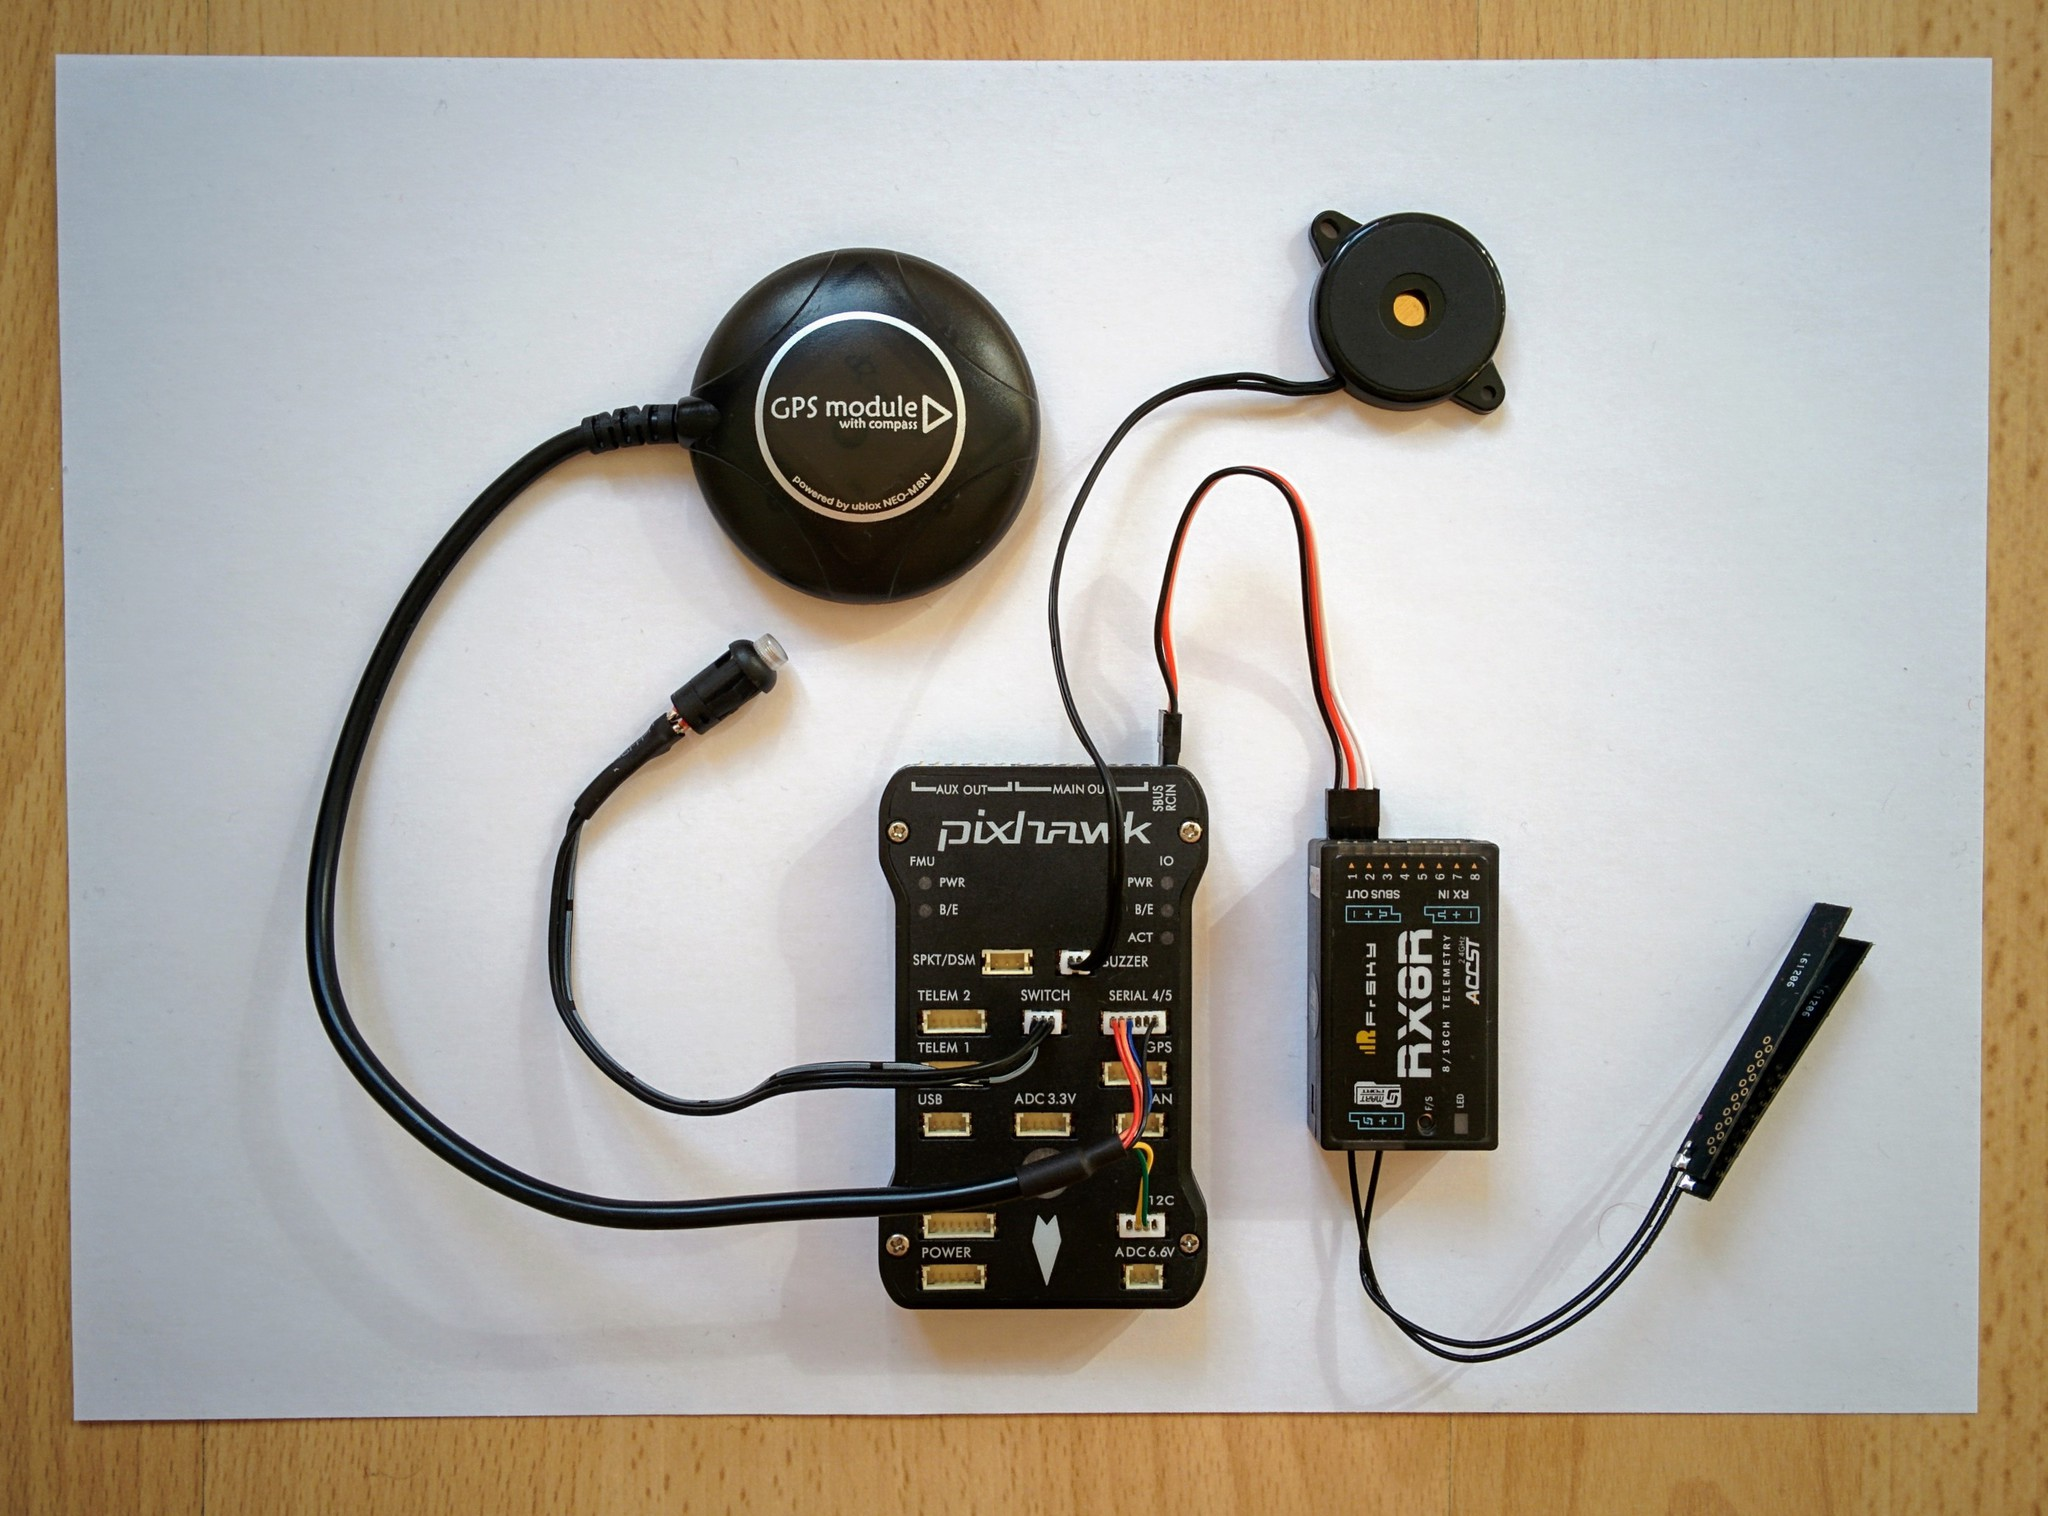
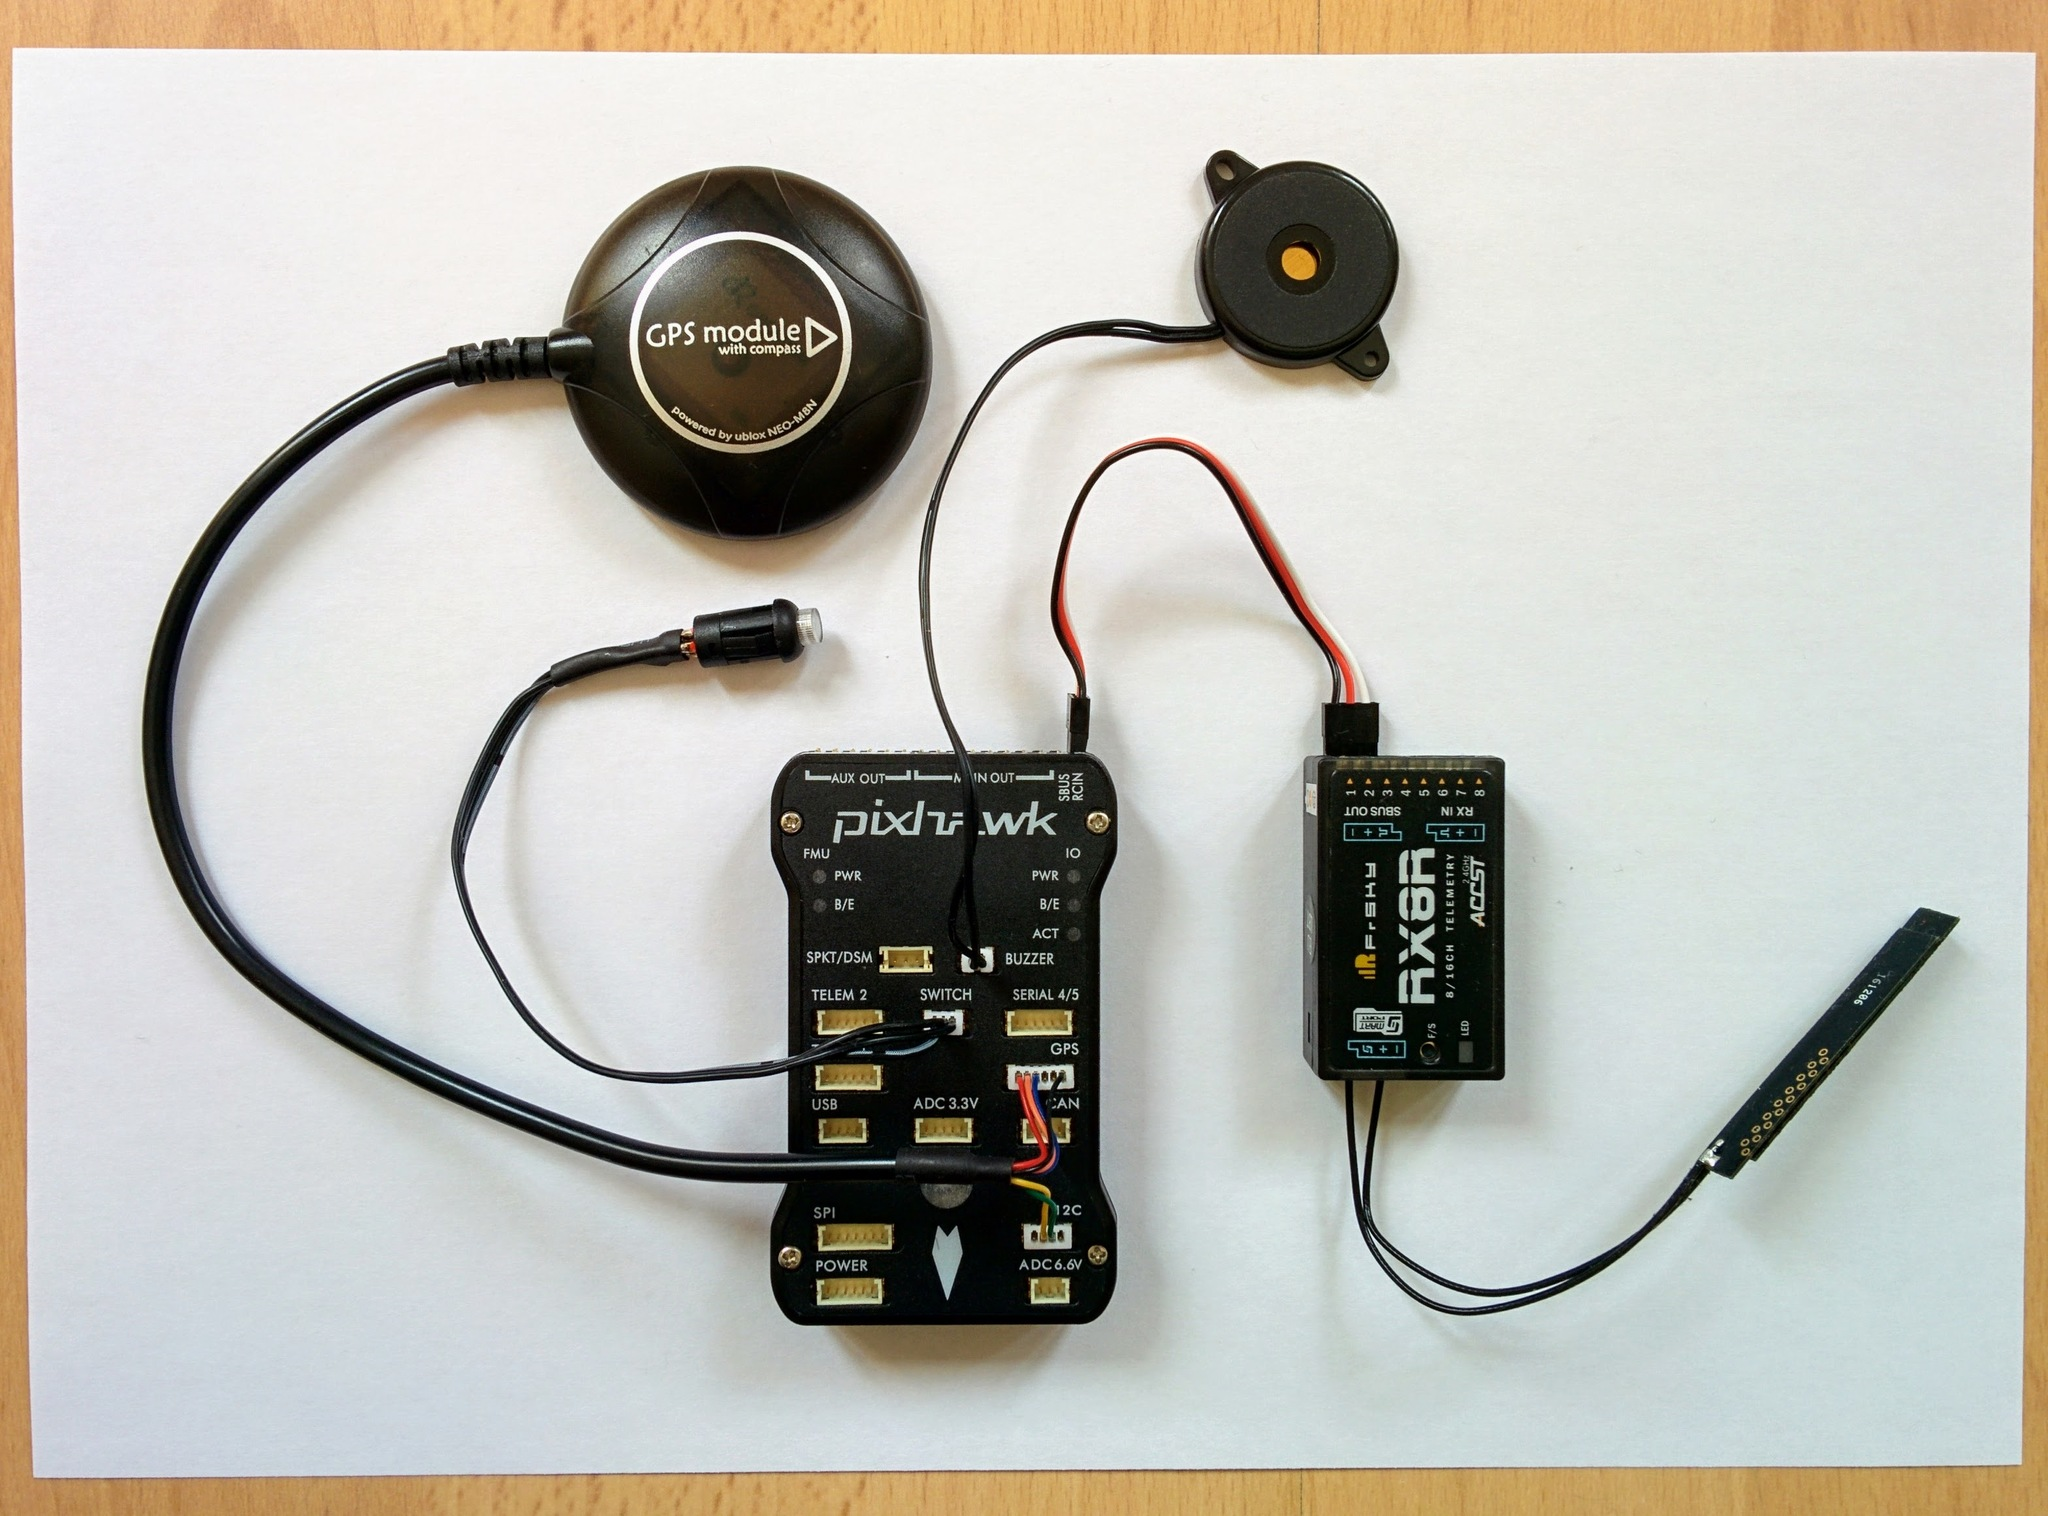
Corrected images (where GPS had been plugged into wrong port previously) and added taped closed battery panel picture for transmitter.

diff --git a/transmitter.md b/transmitter.md
@@ -30,7 +30,10 @@ Batteries
 
 OK - before we use the transmitter we have to add batteries. Take off the battery cover and you'll find a normal looking battery holder that takes 6 AA batteries. When my transmitter arrived the battery cover wouldn't close and it turned out the battery holder wasn't sitting quite right in the case. You can actually pull out the battery holder and instead of using AA batteries you can wire up something like a large LiPo. So just make sure the battery holder is sitting snugly in the case and everything shold be fine.
 
-Note: my battery cover is very loose, this is the only poor feature I've found so far.
+Note: my battery cover is very loose, this is the only poor feature I've found so far. Eventually I taped it in place with masking tape.
+
+_Battery cover taped in place_  
+<img width="256" src="images/assembly/transmitter/taranis-q-x7-masking-tape.jpg">
 
 I used rechargeable NiMH batteries (this [Varta charger](https://www.amazon.co.uk/Varta-57677-PLUG-Charger-Battery/dp/B00HV5XOEG/ref=pd_sim_23_2), that includes four batteries, and an additional [pack of batteries](https://www.amazon.co.uk/Varta-Rechargeable-Batteries-2100mAh-Ni-MH-x/dp/B000EGWOCM/). The Varta charger has a Europlug - Amazon have an own branded [charger](https://www.amazon.co.uk/AmazonBasics-Ni-MH-Battery-Charger-Port/dp/B00TS18AEA/), that presumably comes with a plug to match the market it's sold in, and [batteries](https://www.amazon.co.uk/AmazonBasics-Capacity-Pre-Charged-Rechargeable-Batteries/dp/B00HZV9WTM/). Non-rechargeable batteries, depending on how much you intend to use your drone, may also be fine - the transmitter batteries will last for many hours and given that the LiPo on the drone will only last for about 20 minutes of flight time this means a single set of batteries in the transmitter will last for many flights.
 

diff --git a/assembly-3.md b/assembly-3.md
@@ -18,6 +18,8 @@ The style of connectors used by the Pixhawk and the components that connect to i
 _Pixhawk wired up (without receiver)._  
 <img height="256" src="images/assembly/electronics/pixhawk-wired-up-without-receiver.jpg">
 
+Note: initially I mistook the _GPS_ label as labelling the socket above it and accidentally plugged the GPS into the _SERIAL 4/5_ socket.
+
 When initially attempting to plug in the buzzer etc. I found the connectors so unwilling to go in that I wondered if I was really supposed to apply near board breaking pressure to just force them in. The answer is no - instead for each connector I repeatedly waggled it in and out until everything engaged nicely enough that it was then possible to force the connector in fully. This required a reasonable amount of force, with my thumbnails to the edges of the connector, but not too much.
 
 Once this is done inserting the SD card is altogether more pleasant. There is enough open space beyond the slot in the case that it's possible to push the SD card in without pushing it into the actual SD card holder. The SD card holder is spring loaded so it's fairly obvious once you feel the resistance of the springs. The SD card has to be pushed so far in that I couldn't do it with just my finger nails, I needed to use a small screw driver to press it in the final millimeter or two (if you look closely at the next photo you'll see the SD card is quite far in).
